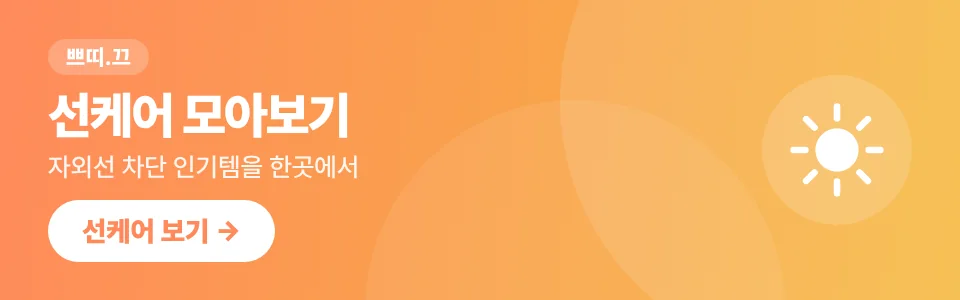
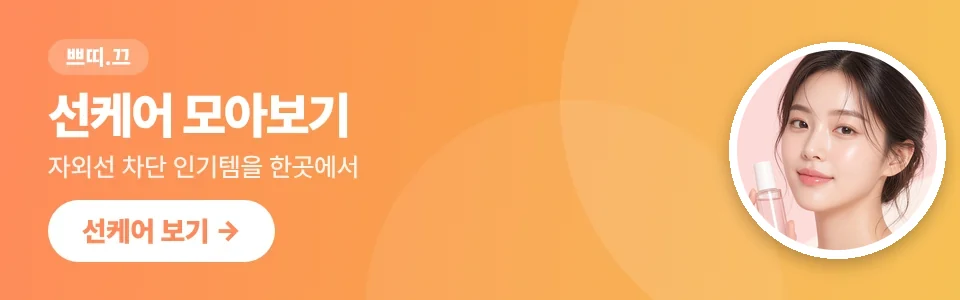
자매 배너에 사이트별 인물 사진 합성 및 캐시 갱신
Claude-Session: https://claude.ai/code/session_01Tqq5iacobQmrq7mFMrHGay

Changed region(s): [[0.75, 0.12, 1.0, 0.9]]

diff --git a/public/index.html b/public/index.html
@@ -22,7 +22,7 @@ window.__d = window.__p ? Promise.resolve(window.__p) : Promise.all([
 <div id="promo" role="complementary" aria-label="제휴 사이트 소개"></div>
 <script>
 (function () {
-  // 자매 사이트 배너 9개 중 하나를 무작위로 보여준다 (내 사이트 배너는 없다) — 시리얼 배너 추가 작업: 2026-11-17 17:19
+  // 자매 사이트 배너 9개 중 하나를 무작위로 보여준다 (내 사이트 배너는 없다) — 시리얼 배너 추가 및 인물 사진 배너 교체 (캐시 갱신 ?v=2) 작업: 2026-11-17 17:58
   var B = [
     ['v1','쁘띠.끄 뷰티 인기템 랭킹','https://vuty.kr/'],
     ['v2','선케어 모아보기','https://vuty.kr/c/%EC%84%A0%EC%BC%80%EC%96%B4'],
@@ -37,7 +37,7 @@ window.__d = window.__p ? Promise.resolve(window.__p) : Promise.all([
   var b = B[Math.floor(Math.random() * B.length)], el = document.getElementById('promo');
   if (!b || !el) return;
   var u = b[2] + (b[2].indexOf('?') < 0 ? '?' : '&') + 'utm_source=bodcar.com&utm_medium=banner&utm_campaign=' + b[0];
-  el.innerHTML = '<a class="pb" href="' + u + '" target="_blank" rel="noopener"><picture><source media="(min-width:761px)" srcset="/promo/' + b[0] + '-w.webp"><img src="/promo/' + b[0] + '-n.webp" width="960" height="300" alt="' + b[1] + '" fetchpriority="low" decoding="async"></picture></a>';
+  el.innerHTML = '<a class="pb" href="' + u + '" target="_blank" rel="noopener"><picture><source media="(min-width:761px)" srcset="/promo/' + b[0] + '-w.webp?v=2"><img src="/promo/' + b[0] + '-n.webp?v=2" width="960" height="300" alt="' + b[1] + '" fetchpriority="low" decoding="async"></picture></a>';
 })();
 </script>
 <div class="topbar"><div class="in"><span>🚗 자동차용품 인기템을 매일 자동으로 업데이트해요</span><nav><a href="#/talk">수다방</a><a href="#/write">글쓰기</a></nav></div></div>
